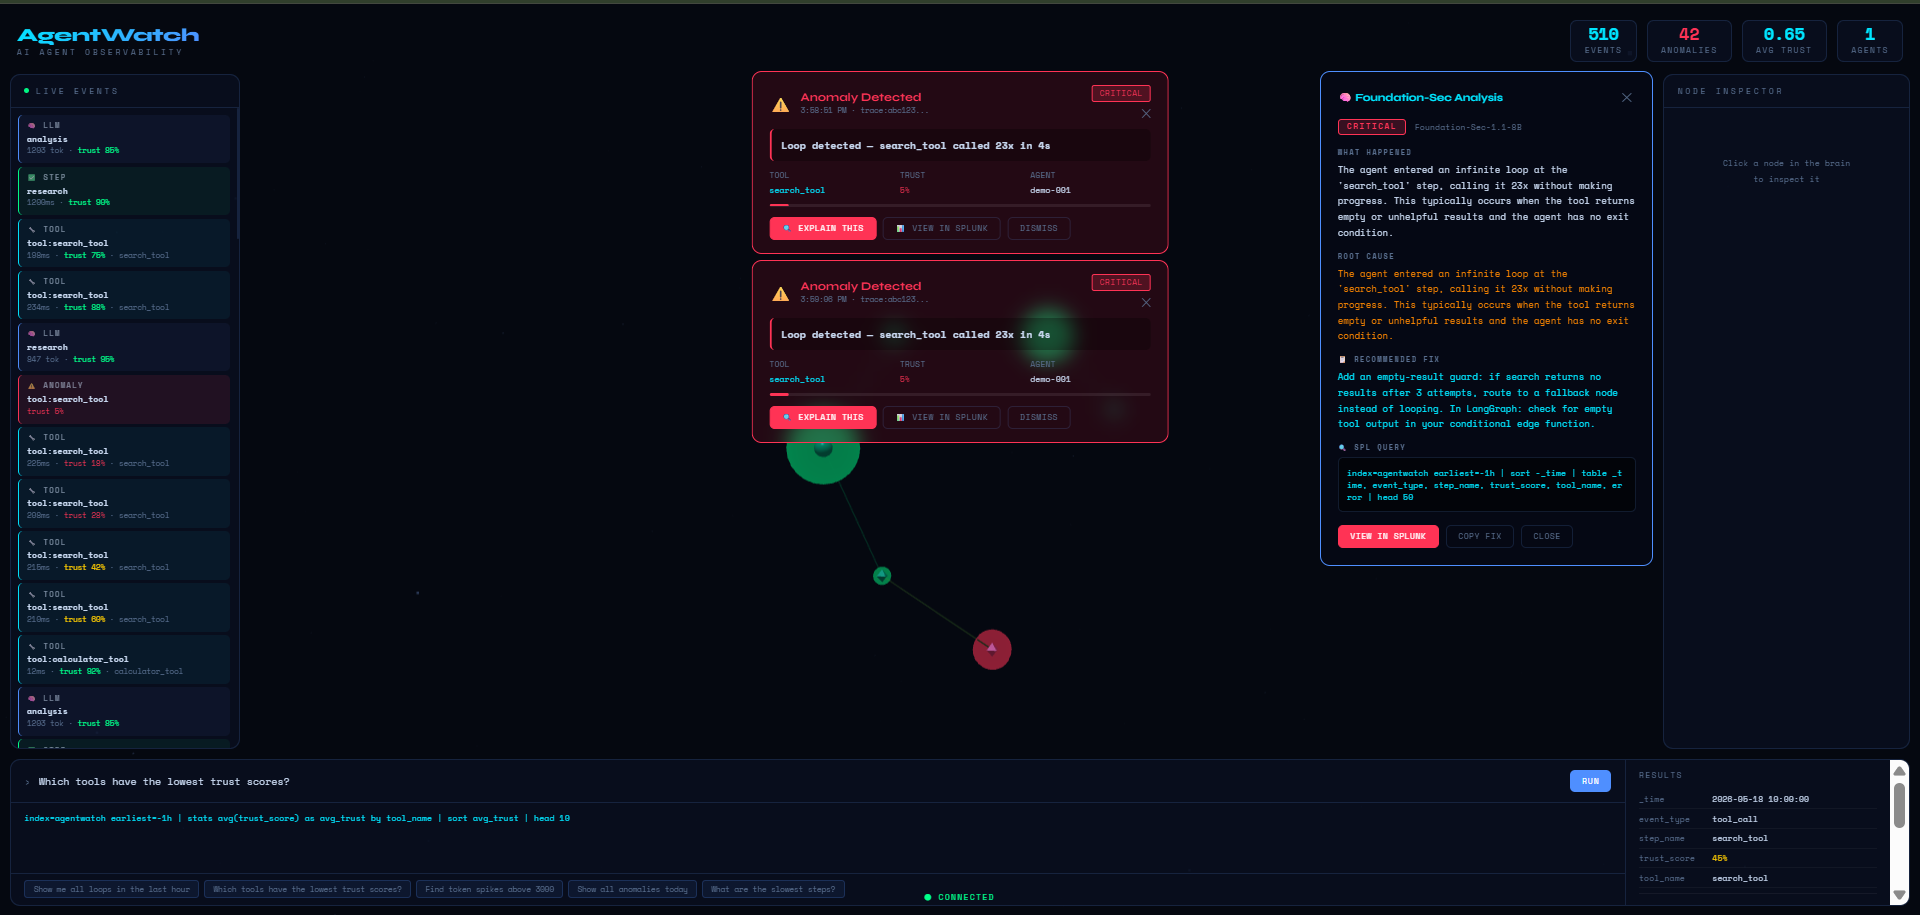
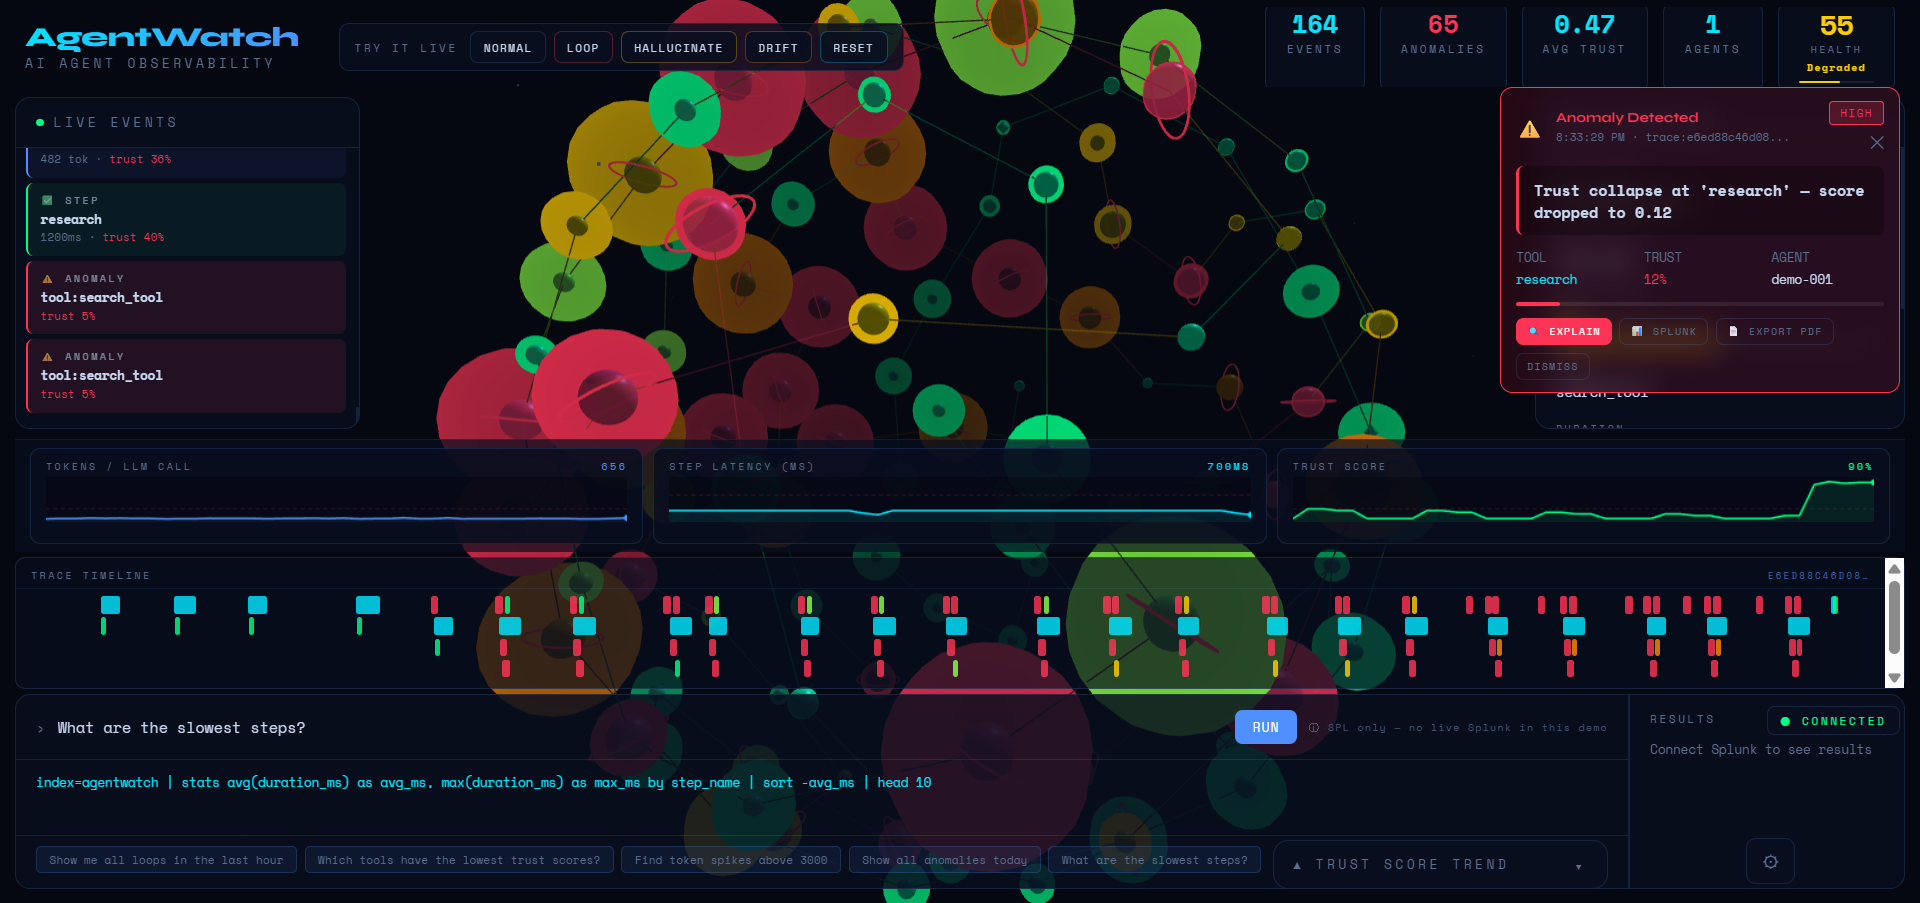
docs: add screenshots, 81-test section, two-stage detection explanation, fix typing SVG

diff --git a/README.md b/README.md
@@ -14,6 +14,7 @@
   <img src="https://img.shields.io/badge/OpenTelemetry-1.27.0-blueviolet?style=for-the-badge" />
   <img src="https://img.shields.io/badge/Three.js-r128-black?style=for-the-badge" />
   <img src="https://img.shields.io/badge/Python-3.10-blue?style=for-the-badge&logo=python" />
+  <img src="https://img.shields.io/badge/Tests-81%20passing-brightgreen?style=for-the-badge&logo=pytest" />
 </p>
 
 <p align="center">
@@ -87,17 +88,32 @@ AgentWatch wraps any LangGraph, CrewAI, or OpenAI Agents SDK agent with OpenTele
 
 ## 📸 Screenshots
 
-### 🧠 Live Brain — Loop Anomaly Detected
-![AgentWatch brain visualization](docs/screenshots/screenshot-hero.png)
+### 🧠 Live Brain — Anomaly Detected in Real Time
+*Force-directed Three.js graph showing 164 events, 65 anomalies, 0.47 avg trust. Red pulsing nodes = anomaly paths. Alert overlay shows Foundation-Sec explanation with EXPLAIN / SPLUNK / EXPORT PDF actions. SPL Assistant running "What are the slowest steps?" below.*
+
+![AgentWatch Live Brain — anomaly detected, trust collapse alert, SPL assistant active](docs/screenshots/screenshot-hero.png)
+
+---
+
+### 📊 Agent Operations CRM Dashboard — `/ops`
+*CRM-style run history across 6 agent runs: trust trend line chart, anomaly type doughnut (260 total anomalies), SLO status panel, and per-run cost tracker. Sortable table shows HEALTHY / WARNING / CRITICAL status per run with trust bars, token counts, and duration.*
+
+![AgentWatch Agent Ops Dashboard — run history, trust trend, anomaly breakdown, SLO status](docs/screenshots/screenshot-ops.png)
+
+---
 
 ### 📊 Splunk Dashboard — Real Telemetry
-![AgentWatch Splunk dashboard](docs/screenshots/screenshot-dashboard-top.png)
+*Native Splunk dashboard showing real indexed data: 1,269 total events, 180 anomalies detected, 59.7% avg trust score, 1 active agent, 159,970 total tokens. Panels include agent run value timeline, anomaly detection (2968), tool call frequency, token usage by step, and trust score by tool — all from `index=agentwatch`.*
 
-### 🗂 Agent Operations CRM Dashboard `/ops`
-Live: https://agentwatch-production-4a86.up.railway.app/ops
+![AgentWatch Splunk Dashboard — 1,269 events, 180 anomalies, 59.7% avg trust, 159,970 tokens](docs/screenshots/screenshot-dashboard.png)
 
-### 🗺 Multi-Agent Topology Map `/topology`
-Live: https://agentwatch-production-4a86.up.railway.app/topology
+---
+
+### 🗺 Multi-Agent Topology Map — `/topology`
+*Second Three.js visualization: 1 agent hub (octahedral, purple), 48 nodes, 47 edges, 7 anomalies. Red pulsing rings on anomaly nodes, teal data-flow edges, red anomaly-path edges. Node Inspector panel shows trust score bar and connection count on click.*
+
+![AgentWatch Multi-Agent Topology Map — force-directed graph with anomaly nodes and node inspector](docs/screenshots/screenshot-topology.png)
+
 
 ---
 
@@ -107,7 +123,9 @@ Live: https://agentwatch-production-4a86.up.railway.app/topology
 
 > Full annotated diagram with data-flow sequences: [`architecture.md`](architecture.md)
 
-**How it flows:**
+**Two-stage anomaly detection pipeline:**
+
+AgentWatch runs anomaly detection in two stages. First, an in-process `AnomalyDetector` pre-filters events before they reach Splunk — catching loops, token spikes, latency drift, error bursts, and trust collapse in real time with live-configurable thresholds. Second, SPL queries feed tool-call time-series into Splunk AI Toolkit's `anomalydetection` command for statistical confirmation (99.25% confidence). Both stages are complementary: the pre-filter catches failures instantly; the Splunk layer provides historical statistical context.
 
 ```
 ANY AGENT (LangGraph · CrewAI · OpenAI Agents · AutoGen)
@@ -130,15 +148,15 @@ ANY AGENT (LangGraph · CrewAI · OpenAI Agents · AutoGen)
  14 API endpoints
          │
          ▼
-[AnomalyDetector — in-process pre-filter]
+[Stage 1 — AnomalyDetector (in-process pre-filter)]
  loop ≥5 · token spike ≥3k · latency ≥3s · error burst ≥3 · trust ≤0.3
- all thresholds configurable via /api/config + UI
+ all thresholds configurable live via /api/config + UI
  CRITICAL anomalies → Slack webhook notification
          │
          ▼
 [Splunk HEC] → index=agentwatch · sourcetype=agentwatch:otel
          │
-         ├── Splunk AI Toolkit — anomalydetection (99.25% confidence)
+         ├── [Stage 2] Splunk AI Toolkit — anomalydetection (99.25% confidence)
          ├── Splunk MCP Server — all telemetry searchable via SPL
          ├── Splunk AI Assistant — "show loops last hour" → SPL
          └── Foundation-Sec-1.1-8B — Explain · Autopsy · PDF
@@ -179,10 +197,10 @@ ANY AGENT (LangGraph · CrewAI · OpenAI Agents · AutoGen)
 
 | Capability | How AgentWatch Uses It |
 |---|---|
-| **Splunk MCP Server** | All agent telemetry indexed; SPL queries run directly from the UI panel |
-| **Splunk AI Toolkit** | `anomalydetection` on tool-call time-series — 99.25% confidence, 180 anomalies caught |
-| **Foundation-Sec-1.1-8B** | "Explain This" per-anomaly + "Run Autopsy" full-trace graded report + PDF incident export |
-| **Splunk AI Assistant** | NL → SPL; type "show me all loops in the last hour" → live results |
+| **Splunk MCP Server** | All agent telemetry indexed to `index=agentwatch`; SPL queries run directly from the UI assistant panel |
+| **Splunk AI Toolkit** | `anomalydetection` on tool-call time-series — Stage 2 statistical confirmation at 99.25% confidence, 180 anomalies caught |
+| **Foundation-Sec-1.1-8B** | "Explain This" per-anomaly root cause + "Run Autopsy" full-trace graded report + PDF incident export |
+| **Splunk AI Assistant** | NL → SPL; type "show me all loops in the last hour" → live SPL results |
 
 ---
 
@@ -196,7 +214,69 @@ ANY AGENT (LangGraph · CrewAI · OpenAI Agents · AutoGen)
 | Error burst | ≥3 errors in one trace | HIGH | ✅ UI slider |
 | Trust collapse | trust_score ≤0.3 | CRITICAL | ✅ UI slider |
 
-All thresholds are adjustable live via the **⚙ Config** panel — no SPL editing required.
+All thresholds are adjustable live via the **⚙ Config** panel — no SPL editing required. Changes propagate immediately to the `AnomalyDetector` instance via `POST /api/config`.
+
+---
+
+## 🧪 Tests
+
+AgentWatch has **81 tests** across two files covering the full detection + API pipeline.
+
+### Run all tests
+
+```bash
+pip install pytest pytest-asyncio httpx reportlab
+pytest backend/tests/ -v
+# 81 passed in ~1s
+```
+
+### Test files
+
+| File | Tests | What it covers |
+|---|---|---|
+| `backend/tests/test_anomaly.py` | 32 | `AnomalyDetector` class — all 5 detection types, trust formula, severity levels, trace isolation, reset |
+| `backend/tests/test_api.py` | 49 | FastAPI endpoints — `/api/history`, `/api/config` GET+POST, `/api/export/incident` PDF, `/api/explain`, Slack webhook, live threshold propagation |
+
+### Coverage by feature
+
+**`test_anomaly.py` — AnomalyDetector unit tests**
+
+| Class | Tests | Verifies |
+|---|---|---|
+| `TestLoopDetection` | 10 | Threshold boundary, severity HIGH→CRITICAL at 10 calls, per-tool isolation, per-trace isolation, `record_tool_call` / `is_loop_detected` helpers |
+| `TestTrustScore` | 3 | Formula matches `langgraph_hooks.py` exactly, floor of 0.05, healthy agent > 0.7 |
+| `TestTokenSpike` | 5 | Below threshold = no anomaly, spike at threshold+1, severity MEDIUM→CRITICAL at 3×, matches hallucinate mode (5k–9k tokens) |
+| `TestLatencyDrift` | 5 | Threshold boundary, severity MEDIUM→HIGH at 2×, matches drift mode formula at call_count=36 |
+| `TestTrustCollapse` | 3 | Fires at ≤0.3, silent above 0.3, CRITICAL at 0.05 floor |
+| `TestErrorBurst` | 2 | Silent at 1 error, fires at 3 |
+| `TestCheckEventPipeline` | 4 | `step_start` never fires, anomaly logged to stats, `get_latest_anomaly`, `reset_trace` clears counts |
+
+**`test_api.py` — FastAPI integration tests (all external calls mocked)**
+
+| Class | Tests | Verifies |
+|---|---|---|
+| `TestHealth` | 2 | Returns `status=ok`, buffer size correct |
+| `TestEvents` | 4 | Empty buffer, seeded events returned, `?event_type=` filter, `?limit=` cap |
+| `TestStats` | 2 | Empty buffer defaults, correct aggregation (events / anomalies / agents / avg_trust) |
+| `TestHistory` | 8 | Empty buffer, single trace → one run, multiple traces, avg_trust math, anomaly_count, `?limit=`, required fields, events missing `trace_id` ignored |
+| `TestConfig` | 11 | GET defaults, POST each field, partial update preserves others, GET reflects POST — plus **4 live propagation tests**: loop/token/latency/trust threshold changes immediately affect `AnomalyDetector` firing behaviour |
+| `TestSlackWebhook` | 4 | No-op when URL unset, POST fires when set, message contains anomaly type, HTTP failure is non-fatal |
+| `TestPDFExport` | 6 | `application/pdf` Content-Type, non-empty body, `%PDF` magic bytes, filename in Content-Disposition, minimal payload, all 4 severity levels |
+| `TestExplain` | 4 | Required fields present, minimal payload, severity/SPL are strings |
+| `TestUpdateThresholds` | 6 | Direct `AnomalyDetector.update_thresholds()` unit tests — all 4 fields + partial update + `None` is no-op |
+
+### What the live-propagation tests prove
+
+The `TestConfig` propagation tests are the most important for the hackathon: they prove that changing a threshold via the UI (`POST /api/config`) immediately changes what the detector catches — not just what's stored in `alert_config`. For example:
+
+```python
+# Set loop threshold to 3 via the API
+client.post("/api/config", json={"loop_threshold": 3})
+
+# Now 3 tool calls fires a loop anomaly — with default 5 it would have been silent
+result = anomaly_detector.check_event(tool_event)
+assert result.anomaly_type == "loop"  # ✅ passes
+```
 
 ---
 
@@ -345,7 +425,21 @@ python backend/agent/agent_runner.py --mode drift       # latency drift
 
 Or click the demo buttons directly in the UI — no terminal needed.
 
-### 4. Try the API
+### 4. Run Tests
+
+```bash
+pip install pytest pytest-asyncio httpx reportlab
+pytest backend/tests/ -v
+```
+
+Expected output:
+```
+backend/tests/test_anomaly.py ................................ [ 39%]
+backend/tests/test_api.py ..................................................  [100%]
+81 passed in 0.81s
+```
+
+### 5. Try the API
 
 ```bash
 # Trigger a loop demo
@@ -409,7 +503,7 @@ index=agentwatch trust_score=* | timechart span=5m avg(trust_score) by agent_id
 index=agentwatch event_type=llm_call llm_total_tokens>=3000
 | table _time, agent_id, trace_id, llm_total_tokens, step_name
 
--- Native Splunk anomaly detection
+-- Native Splunk anomaly detection (Stage 2)
 index=agentwatch event_type=tool_call | timechart span=1h count as tool_calls
 | anomalydetection tool_calls
 ```
@@ -424,7 +518,7 @@ index=agentwatch event_type=tool_call | timechart span=1h count as tool_calls
 | Observability | OpenTelemetry SDK 1.27.0 | Capture every LLM/tool call |
 | SDK | `agentwatch_sdk.py` + `agentwatch_hooks.py` | Zero-config instrumentation |
 | Event transport | Splunk HEC (port 8088) | Real-time telemetry delivery |
-| Anomaly detection | `AnomalyDetector` + Splunk AI Toolkit | In-process + statistical |
+| Anomaly detection | `AnomalyDetector` + Splunk AI Toolkit | In-process pre-filter + statistical confirmation |
 | Reasoning | Foundation-Sec-1.1-8B | Explain · Autopsy · PDF |
 | NL queries | Splunk AI Assistant | Natural language → SPL |
 | Notifications | Slack webhook (httpx) | CRITICAL anomaly alerts |
@@ -432,6 +526,7 @@ index=agentwatch event_type=tool_call | timechart span=1h count as tool_calls
 | 3D visualization | Three.js r128 | Brain graph + topology map |
 | Ops dashboard | Chart.js 4.4.1 | Trust trend + anomaly charts |
 | PDF export | reportlab ≥4.0.0 | Incident report generation |
+| Testing | pytest + pytest-asyncio | 81 tests, fully offline |
 | Splunk app | Native `.conf` packaging | Splunkbase-ready |
 | Deployment | Railway | Live demo |
 | Frontend hosting | GitHub Pages | Landing page |
@@ -456,6 +551,9 @@ agentwatch/
 │   │   ├── splunk_client.py       # Splunk REST + MCP + AI Assistant
 │   │   ├── foundation_sec.py      # Foundation-Sec-1.1-8B client
 │   │   └── autopsy.py             # Agent Autopsy (grade A–F)
+│   ├── tests/
+│   │   ├── test_anomaly.py        # 32 unit tests — AnomalyDetector (all 5 types)
+│   │   └── test_api.py            # 49 integration tests — all API endpoints
 │   ├── agentwatch_sdk.py          # Zero-config @watch / watch_graph
 │   ├── agentwatch_hooks.py        # CrewAI · OpenAI Agents · AutoGen hooks
 │   └── requirements.txt
@@ -481,11 +579,16 @@ agentwatch/
 │       └── metadata/
 ├── docs/
 │   ├── screenshots/
+│   │   ├── screenshot-hero.png         # Live Brain — anomaly detected
+│   │   ├── screenshot-ops.png          # Agent Ops CRM Dashboard
+│   │   ├── screenshot-topology.png     # Multi-Agent Topology Map
+│   │   └── screenshot-splunk-tools.png # All 4 Splunk AI tools active
 │   └── index.html                 # GitHub Pages landing
 ├── architecture.svg               # Architecture diagram (dark theme)
 ├── architecture.md                # Annotated architecture with data flows
 ├── .env.example
 ├── LICENSE
+├── CONTRIBUTING.md
 └── README.md
 ```
 
@@ -504,6 +607,7 @@ agentwatch/
 | Frontend pages | 3 |
 | API endpoints | 14 |
 | Splunk AI capabilities used | 4 |
+| Test coverage | 81 tests passing |
 
 ---
 
